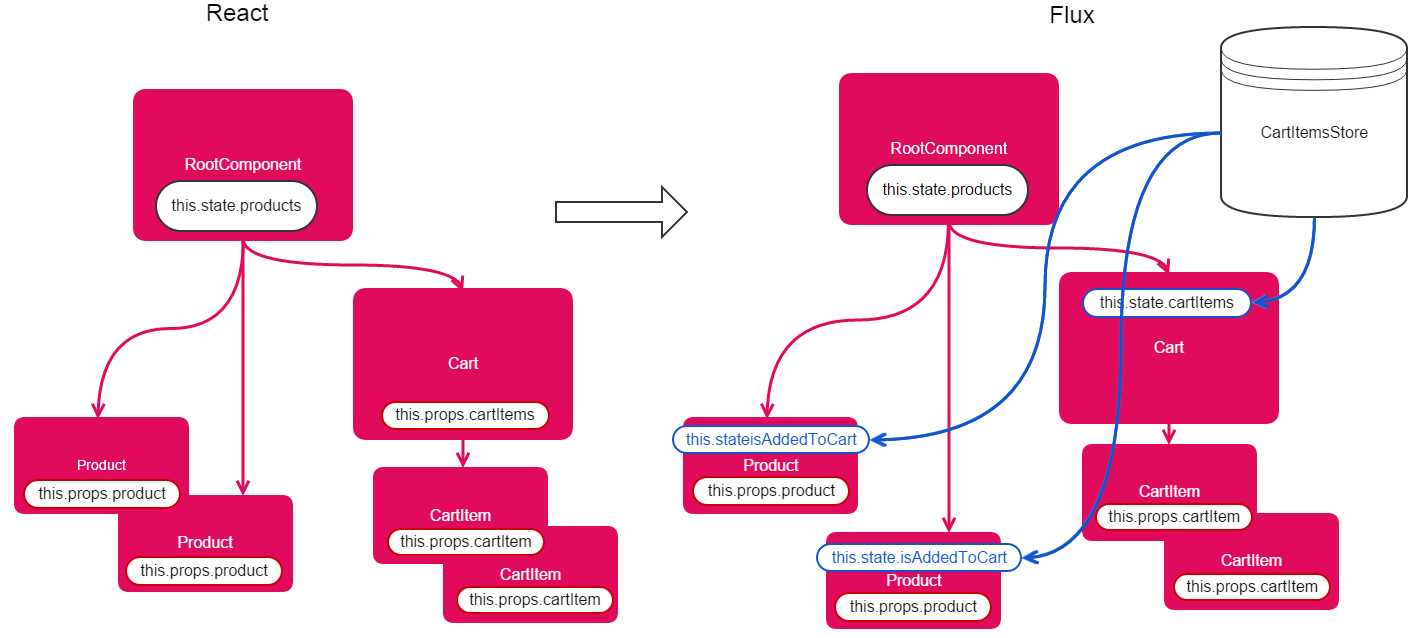
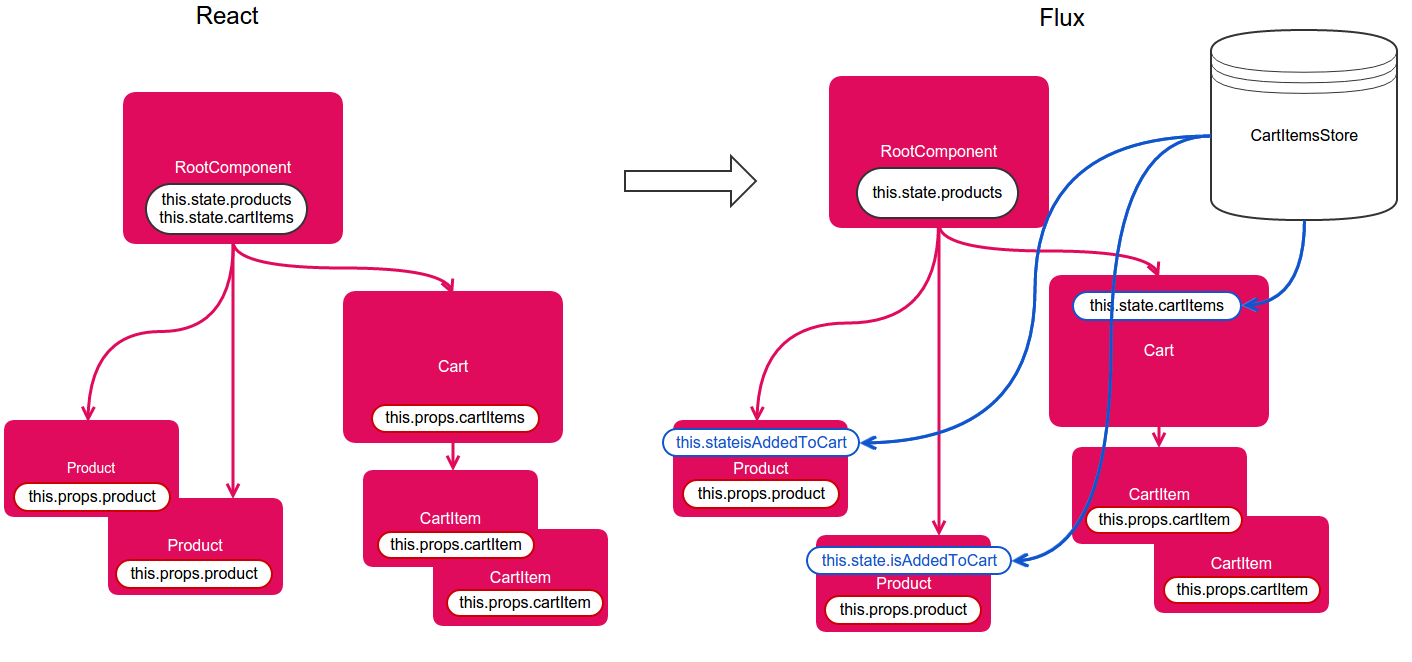
fixed some things

diff --git a/index.html b/index.html
@@ -300,8 +300,8 @@ var YourRootComponent = React.createClass(
 
 # Live coding - React
 State is passed from top to bottom of React Component tree.
+<div style="overflow:hidden"><img width='1000px'  src='assets/img/workflow.png' /></div>
 
-<img width='500px'  src='assets/img/workflow_react.png' />
 
 ---
 
@@ -342,6 +342,22 @@ loadMoreSearchResults: function(parameters) {
 ```
 ---
 
+# Dispacher
+There's single Dispatcher instance per application
+<img width='600px'  src='assets/img/dispatcher.png' />
+
+Dispatcher is not simple event-bus - it provides synchronization between Stores' callbacks.
+```javascript
+CityStore.dispatchToken = flightDispatcher.register(function(payload) {
+    if (payload.actionType === 'country-update') {
+        flightDispatcher.waitFor([CountryStore.dispatchToken]);
+        CityStore.city = getDefaultCityForCountry(CountryStore.country);
+    }
+});
+```
+---
+
+
 # Stores
 <img width='600px'  src='assets/img/flux_store.png' />
 
@@ -354,7 +370,7 @@ Stores don't mutate each other directly.
 
 # Live coding - Flux
 - let Product components know if Product was added to Cart
-- fix top-to-bottom Data flow and incapsulate business logic with Flux architecture
+- replace top-to-bottom Data flow with Flux architecture
 
 <img width='950px'  src='assets/img/workflow.png' />
 
